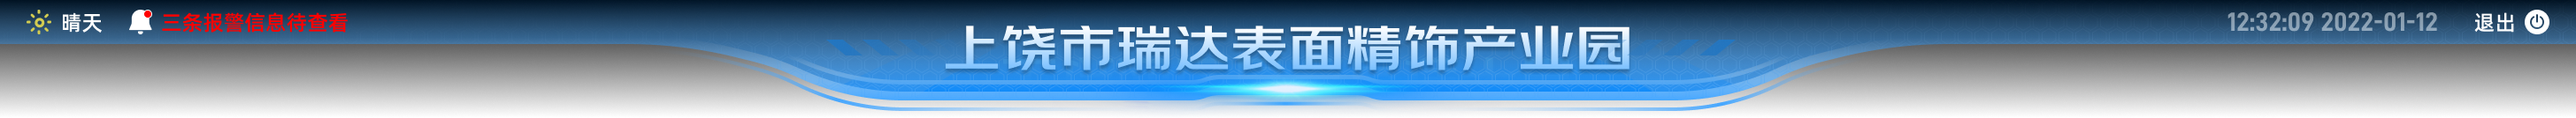
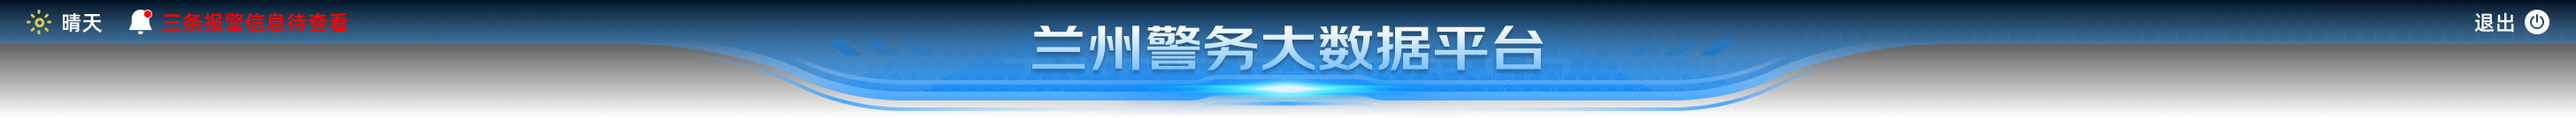
修改css

Changed region(s): [[0.3438, 0.209, 0.6562, 0.6269], [0.8438, 0.0896, 0.9688, 0.2687]]

diff --git a/src/pages/home.scss b/src/pages/home.scss
@@ -3,6 +3,8 @@
 .home {flex: 1;display: flex;flex-direction: column;
   background: #010310; color: white;
   font-size: px(16);
+  background-image: url(../images/bgimage.png);
+  background-size: cover;
   > header {
     height: px(99);
     background-size: cover;
@@ -14,7 +16,8 @@
     border: 1px solid #0d2d59;
     margin: px(20) 0 1px;
     border-radius: 4px;
-    background: #0c0d2b;
+    background: rgba(5, 19, 50, 0.7);
+    background: linear-gradient(180deg, rgba(34, 118, 194, 0.0001) 0%, rgba(34, 118, 194, 0.300881) 67.65%);
     display: flex;
     align-items: center;
     justify-content: center;
@@ -36,9 +39,10 @@
       border-radius: 4px;
       position: relative;
       box-shadow: 0 0 2px 0 #0e325f, inset 0 0 2px 0 #0e325f;
-      background: #0f113a;
+      background: rgba(5, 19, 50, 0.7);
       &::before {
         //鼠标点击无效
+        background: linear-gradient(180deg, rgba(34, 118, 194, 0.0001) 0%, rgba(34, 118, 194, 0.300881) 67.65%);
         pointer-events: none;
         content: '';
         position: absolute;
@@ -132,12 +136,25 @@
         flex: 1;display: flex; flex-direction: column;
       }
       &-图1, &-图2 {
-        .legend {height: px(40); display: flex; align-items: center;
-          justify-content: center; flex-wrap: wrap; padding-right: px(10);
-          > span {display: inline-block; width: px(16); height: px(10);
-            border-radius: px(2); margin: 0 px(10);}
-          .male {background: #33a4fa;}
-          .female {background: #8d70f8;}
+        .legend {
+          height: px(40); 
+          display: flex; 
+          align-items: center;
+          justify-content: center; 
+          flex-wrap: wrap; 
+          padding-right: px(10);
+          > span {
+            display: inline-block; 
+            width: px(16); 
+            height: px(10);
+            border-radius: px(2); 
+            margin: 0 px(10);}
+          .male {
+            background: #33a4fa;
+          }
+          #legendFamale {
+            background: #8d70f8;
+          }
         }
         .chart {
           position: relative;

diff --git a/src/components/chart-7.tsx b/src/components/chart-7.tsx
@@ -21,7 +21,7 @@ export const Chart7 = () => {
             radius: ['75%', '90%'],
             avoidLabelOverlap: false,
             itemStyle: {
-              borderColor: '#0F113A',
+              // borderColor: '#0F113A',
               borderWidth: px(4)
             },
             label: {
@@ -57,7 +57,7 @@ export const Chart7 = () => {
       </div>
       <div className='legend'>
         <span className='male' />男
-        <span className='famale' />女
+        <span className='famale'id='legendFamale' />女
       </div>
     </div>
   );

diff --git a/src/components/chart-8.tsx b/src/components/chart-8.tsx
@@ -29,7 +29,7 @@ export const Chart8 = () => {
           },
           labelLine: {show: false},
           itemStyle: {
-            borderColor: '#0F113A',
+            // borderColor: '#0F113A',
             borderWidth: px(4)
           },
           data: [

diff --git a/src/pages/home.tsx b/src/pages/home.tsx
@@ -66,7 +66,7 @@ export const Home = () => {
         </section>
       </main>
       <footer>
-        &copy; 饥人谷 2020-{year}
+        &copy; 兰州公安 2022-{year}
       </footer>
     </div>
   );
